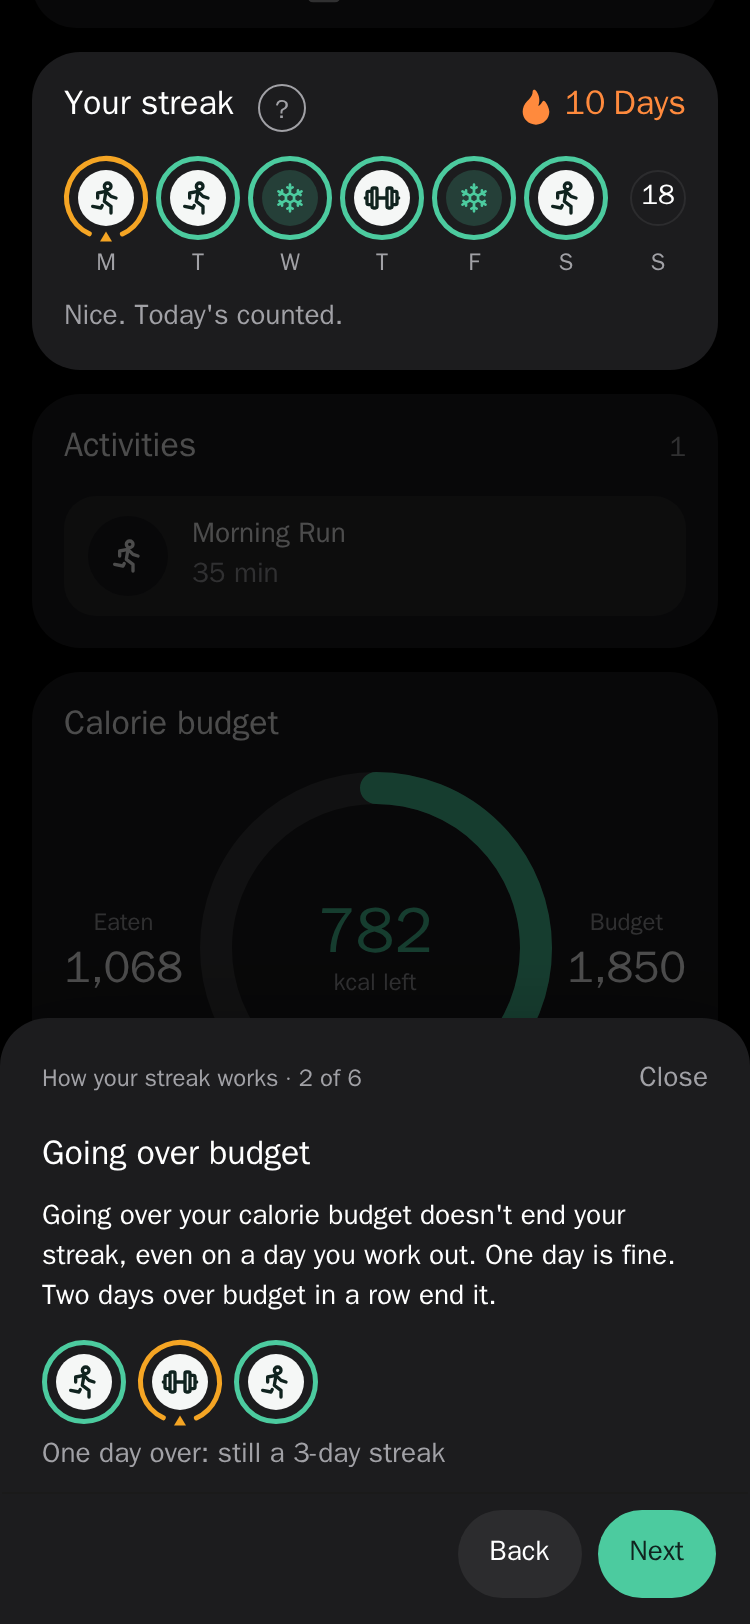
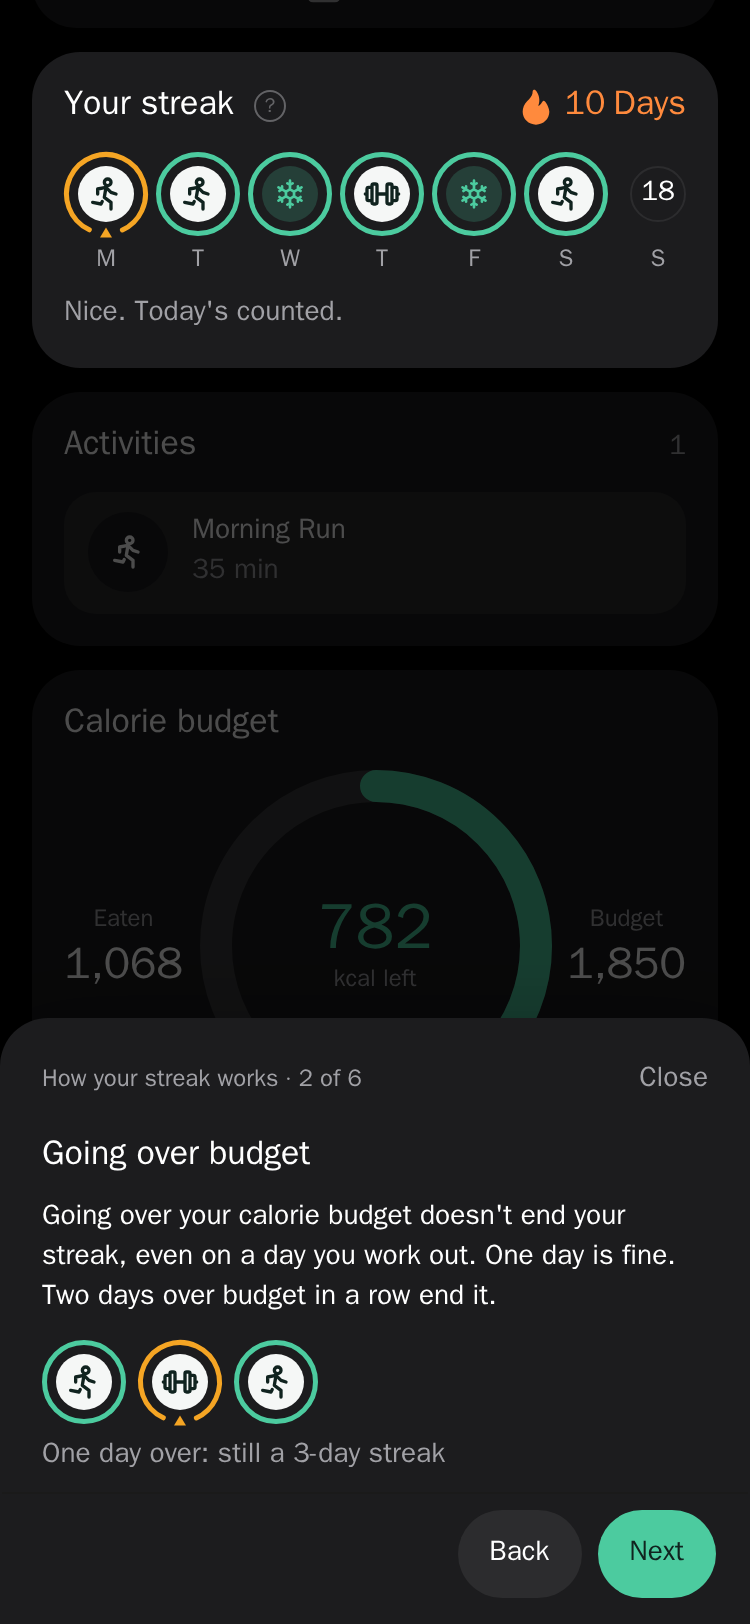
style: resize and reposition the streak card's help button

diff --git a/web/src/components/StreakCard.module.css b/web/src/components/StreakCard.module.css
@@ -67,36 +67,38 @@
   line-height: 1;
 }
 
-/* The "?" after the title: a 24px circle with a 44px touch target around it. The negative
-   margin keeps the header row as tall as before. */
+/* The "?" after the title: quiet on purpose, a 16px outline circle in the dim color, 10px
+   from the title and centred on it. The touch target is still 44px; the negative
+   margins keep it from pushing the title row taller or the circle away from the title. */
 .help {
   display: grid;
   place-items: center;
   width: 44px;
   height: 44px;
-  margin: -10px -6px;
+  margin: -14px -14px -14px -12px;
   padding: 0;
   border: 0;
   border-radius: 50%;
   background: transparent;
-  color: var(--text-secondary);
+  color: var(--text-dim);
   cursor: pointer;
 }
 
 .helpMark {
   display: grid;
   place-items: center;
-  width: 24px;
-  height: 24px;
-  border: 1.5px solid currentColor;
+  width: 16px;
+  height: 16px;
+  border: 1.25px solid currentColor;
   border-radius: 50%;
-  font-size: 0.8125rem;
-  font-weight: 700;
+  font-size: 10px;
+  font-weight: 600;
   line-height: 1;
 }
 
-.help:hover {
-  color: var(--text);
+.help:hover,
+.help:focus-visible {
+  color: var(--text-secondary);
 }
 
 .help:focus-visible {

diff --git a/docs/UI_SPEC.md b/docs/UI_SPEC.md
@@ -72,7 +72,7 @@ Reference images live in `docs/design-reference/`. This text is authoritative wh
 Full-width pill: `‹`, calendar icon (22px) + label (17px), `›`. Label: "Today", "Yesterday", or "Sat, Oct 17". `›` disabled on today; `‹` disabled at `earliest_date`. Tapping the middle opens the phone's date picker (an invisible date input over it, as on the vacation chips), limited to `earliest_date`..today. Buttons ≥ 44px tall. Accessible names: "Previous day", "Next day", "Choose a day. Showing Sat, Oct 17".
 
 ### 5.3 Streak card
-Title "Your streak" top-left, styled like every card title, then a round **?** button (a 24px circle in a 44px touch target, `aria-label` "How streaks work", mint focus ring; Rob chose the header, 2026-11-05) that opens the streak explainer (section 12, D129); it never opens by itself. Layout: flame+count block, then the 7-day row; the flame's bottom lines up with the bottom of the rings. The days are not buttons; the ? is the card's only control. No overflow menu (pause is not in v1). The circle and its ring are one component, `DayCircle`, shared with the explainer's example rows.
+Title "Your streak" top-left, styled like every card title, then a quiet round **?** button (a 16px outline circle in `--text-dim`, 10px from the title and centred on it, inside a 44px touch target; `aria-label` "How streaks work", mint focus ring; Rob chose the header and asked for it small and unobtrusive, 2026-11-06) that opens the streak explainer (section 12, D129); it never opens by itself. Layout: flame+count block, then the 7-day row; the flame's bottom lines up with the bottom of the rings. The days are not buttons; the ? is the card's only control. No overflow menu (pause is not in v1). The circle and its ring are one component, `DayCircle`, shared with the explainer's example rows.
 
 The circle shows what happened that day, from `kind`, `state` and `primary_activity_type` (Slice 7d):
 
